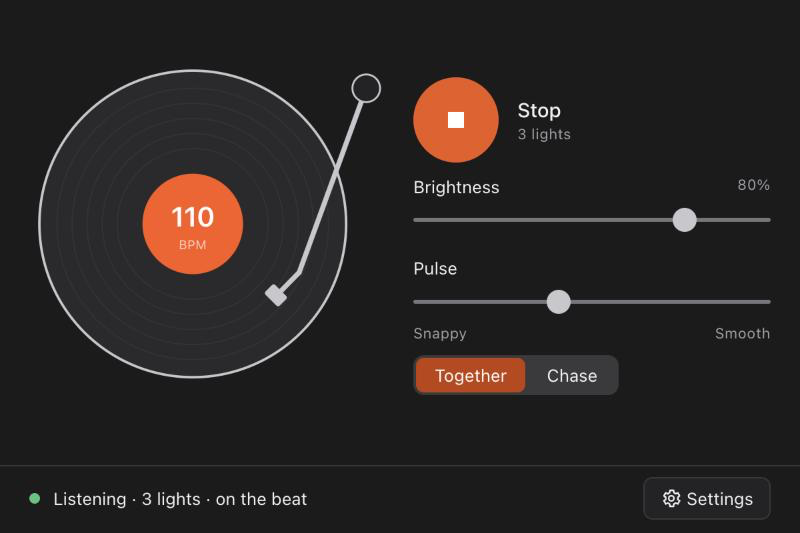
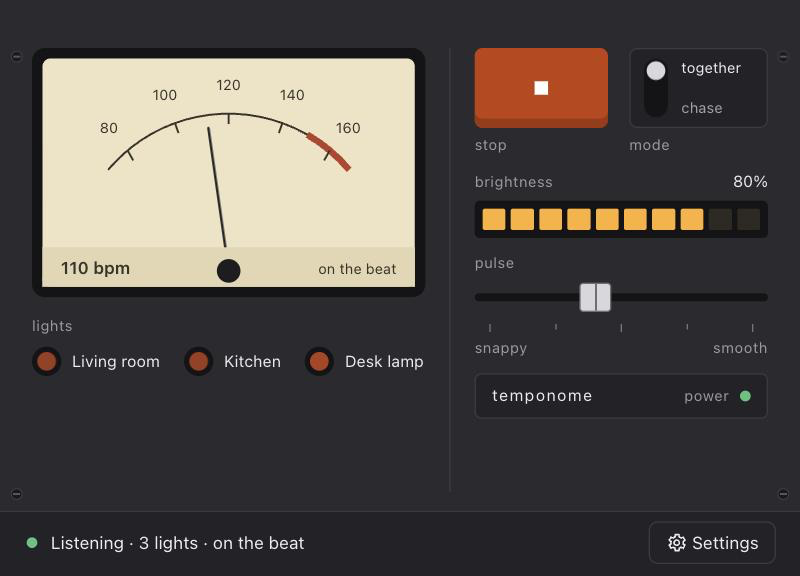
Update README screenshots and project notes for the analog deck

diff --git a/CLAUDE.md b/CLAUDE.md
@@ -41,10 +41,14 @@ anything they must do on their Mac, and keep the double-click launcher working.
 - `temponome.py`: engine and local web server (Engine, BeatTracker, Tapo/Govee control,
   finder, calibration API, `status_text()` plain-words status, `apply_config()` which
   restarts the engine when the light list changes while playing, `make_server(port)`).
-- `ui/`: the pages, served from disk. `main.html` = the compact turntable "deck" (Play,
-  Brightness, Pulse, Together/Chase, status); `settings.html` + `settings.js` = Settings
+- `ui/`: the pages, served from disk. `main.html` = the analog "deck" (2026-11-24 redesign,
+  spec `docs/superpowers/specs/2026-11-24-analog-deck-design.md`): cream VU meter (80–160 BPM
+  over ±40°, needle rests at the tempo and kicks +9° on each beat), one lamp per light from
+  `/api/state` `lamps`, play/stop key, together/chase flip toggle, brightness as 10 amber
+  cells over a hidden range input, pulse fader, nameplate, status strip. Owner rule: **no
+  caption may touch or cross a line**; `settings.html` + `settings.js` = Settings
   window (Lights, Colors, Sound, Timing tabs; finder and webcam calibration live here);
-  `deck.css` (LP60-style look, dark = black deck, light = white deck; accent #e2531b);
+  `deck.css` (analog panel tokens: dark = black panel, light = silver; accent #e2531b);
   `common.js` (`T.api`, `T.saveCfg`, `T.openSettings`).
 - `app/temponome_app.py`: the Mac app shell. Picks a free port (8765 if free), starts the
   server and opens native WebKit windows with pywebview; Settings is a second window;
@@ -59,8 +63,12 @@ anything they must do on their Mac, and keep the double-click launcher working.
   `--sign "Developer ID Application: …"` and optionally `--notary-profile <profile>`
   (uses `build/entitlements.plist`; untested without an account). Uses `build/.venv`.
   The owner asked for a .dmg instead of the earlier .pkg (2026-11-24).
-- **Window sizes** (`app/temponome_app.py`): pywebview sizes include the 32 pt title bar
-  (`TITLE_BAR`). Measured page needs: deck 600x400, Settings 680x640; minimums 440x330 and
+- **Title bar** (`merge_title_bar`): see-through and drawn over the page in both windows
+  (full-size content view, hidden title); pages start with a `.titlebar` strip (30 px,
+  class `pywebview-drag-region`, drags the window). Turning this on shrinks the window by
+  the title bar, so it resets the frame to the full size. Checked in real windows: pages
+  get 600x432 and 680x672.
+- **Window sizes** (`app/temponome_app.py`): window sizes include `TITLE_BAR` (32 pt). Measured page needs: deck 600x400, Settings 680x640; minimums 440x330 and
   480x420. The deck layout shrinks the record with the window (`--s` in main.html) so it
   never scrolls; Settings scrolls under a sticky tab bar. Settings opens beside the main
   window (`settings_position`: right, else left, else the main window slides over; only
@@ -82,7 +90,7 @@ anything they must do on their Mac, and keep the double-click launcher working.
   light-list changes, a Tapo bulb that takes 30 s to answer, and a light unplugged mid-song). It needs numpy and scipy. Stop any other Temponome first:
   only one program can hold UDP port 4002 (Govee replies).
 - `tests/test_temponome.py`: unit tests (stdlib unittest; pytest isn't installed):
-  `python3 -m unittest tests.test_temponome` → OK (42 tests: settings migration and safe
+  `python3 -m unittest tests.test_temponome` → OK (51 tests: settings migration and safe
   saving, page routes and the foreign-request check, status wording, deck state, app shell
   port/shutdown, second-copy message).
 - **Robustness rules (from the final review):** settings are written atomically under
@@ -121,8 +129,13 @@ anything they must do on their Mac, and keep the double-click launcher working.
    Uncalibrated: beats fire early by `lead` (the "timing nudge") + half the light's
    latency difference from the average + its offset. Calibrated (device `calib` set):
    early by live round trip + `calib` + nudge + offset. `LOOKAHEAD` = 0.7 s caps the lead.
-6. **Color:** blends Color A → Color B by tempo (60→180 BPM), or a fixed A/B per
-   light. The hue glides toward its target.
+6. **Color:** blends calm (A) → energetic (B) by tempo (60→180 BPM) **around the color
+   wheel** (shortest hue path, saturation linear; white takes the other color's hue) so the
+   middle stays vivid, or a fixed A/B per light. The hue glides toward its target.
+   Settings → Colors: tempo strip + one segmented wheel (24 hues × 6 rings, HSL s 90→65 %,
+   l 50→86 %, white center); every piece is a hue/saturation the lamps accept (outer ring
+   sends 95 % saturation, inner 19 %). `POST /api/preview {"color"}` shows a color on all
+   lights at max brightness for 1.5 s (needs Play).
 7. **Webcam timing calibration** (Settings → Timing): runs in the page with
    `getUserMedia`, so no extra package. It starts the engine itself if needed. Inside the
    app window WebKit may not offer the camera (pywebview has no media-capture delegate;

diff --git a/README.md b/README.md
@@ -3,11 +3,11 @@
 Makes your Tapo and Govee lights pulse and change color with your music, on a Mac.
 
 <p align="center">
-  <img src="docs/screenshots/main-dark.png" width="49%" alt="Temponome playing in dark mode: a record shows 110 BPM, with Stop, Brightness, Pulse and Together or Chase controls">
-  <img src="docs/screenshots/main-light.png" width="49%" alt="The same window in light mode">
+  <img src="docs/screenshots/main-dark.png" width="49%" alt="Temponome playing in dark mode: a cream VU meter shows 110 BPM, three light lamps glow below it, with a stop key, a together or chase toggle, amber brightness steps and a pulse fader">
+  <img src="docs/screenshots/main-light.png" width="49%" alt="The same window with the silver panel used in light mode">
 </p>
 
-The main window looks like a small turntable. Press Play and the record shows the song's tempo, glowing in your lights' color on every beat.
+The main window looks like a small piece of studio gear. Press Play: the meter's needle points at the song's tempo and kicks on every beat, and each of your lights has its own lamp glowing in the color it is showing.
 
 ## Install
 1. Download **Temponome.dmg** from the [latest release](https://github.com/petroskon18/temponome/releases/latest) (Apple silicon Macs), open it and drag **Temponome** onto the **Applications** folder (choose Replace if asked).
@@ -23,8 +23,8 @@ The main window looks like a small turntable. Press Play and the record shows th
 
 | Lights | Colors | Timing |
 |---|---|---|
-| <img src="docs/screenshots/settings-lights.png" alt="Lights tab: three found lights with their color choice, Find my lights, and the Tapo account"> | <img src="docs/screenshots/settings-colors.png" alt="Colors tab: two color wheels, a calm color for slow songs and an energetic one for fast songs"> | <img src="docs/screenshots/settings-timing.png" alt="Timing tab: camera calibration and a fine-tune slider from Earlier to Later"> |
-| Find your lights on Wi-Fi and pick which to use. | Choose a calm and an energetic color; the lights blend between them by tempo. | Measure each light's delay with the Mac's camera, so flashes land on the beat. |
+| <img src="docs/screenshots/settings-lights.png" alt="Lights tab: three found lights with their color choice, Find my lights, and the Tapo account"> | <img src="docs/screenshots/settings-colors.png" alt="Colors tab: a strip showing the color at each tempo above a segmented color wheel with calm and energetic markers"> | <img src="docs/screenshots/settings-timing.png" alt="Timing tab: camera calibration and a fine-tune slider from Earlier to Later"> |
+| Find your lights on Wi-Fi and pick which to use. | Pick a calm and an energetic color on the wheel; the strip shows the color at every tempo, and Preview shows it on your lights. | Measure each light's delay with the Mac's camera, so flashes land on the beat. |
 
 ## Older way to run it
 Double-click `Start Tapo Music.command` (needs Python). Don't run it at the same time as the app.
